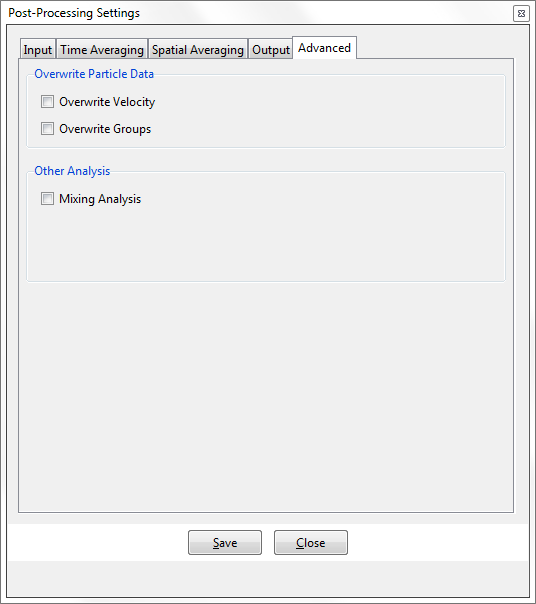
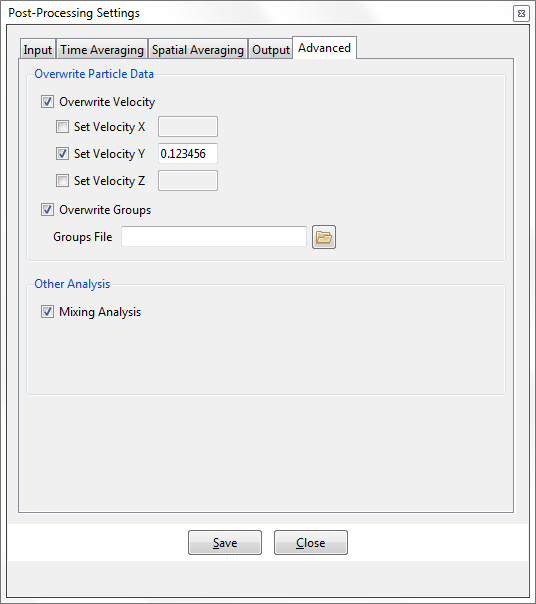
Takes my docs work up and including 2.2.2.5

diff --git a/manual/post/post_processing_options_frame3.md b/manual/post/post_processing_options_frame3.md
@@ -1,45 +1,43 @@
-# Spatial Averaging
+## Spatial Averaging
 
-this section is used for the definition of the spatial average processing. Allows the user chose between
-Binning (cell-based averaged values) or Coarse graining (point-based average values), and for the case
-of Coarse graining, activate the calculation of gradients and spatial integrals.
+This tab is used for the definition of the spatial averaging process. Users can chose between
+Binning (cell-based average values) or Coarse Graining (point-based weighted-average values). In the case
+of Coarse Graining, users can activate the calculation of gradients and spatial integrals.
 
-![Screenshot](img/p4_settings_frame3.png)
+![Post-Processing Settings: Spatial Averaging](img/postProSettingsSpatialTab.png)
 
+The image above shows the appearance of the Spatial Averaging tab as seen when it is first navigated to.  However, its layout will change (with different fields appearing and vanishing), as different options are selected. 
 
-* **Type.** [Coarse_Graining / Binning] The type of spatial averaging can be chose as Coarse Graining or Binning. (See below for details)
+* **Type** : [Coarse_Graining / Binning] Users can select `Binning` or `Coarse_Graining` when deciding which type of spatial averaging they want. Binning will perform a simple average over those particles found to be inside an element of the coarse graining mesh.  Coarse graining will apply a weighted-average over those particles found to be within a given radius of a vertex of the coarse graining mesh.
+  
+ - **All of the rest of this section is devoted to `Coarse_Graining`.  If the user selects `Binning` as their spatial averaging type, there are no further options.** 
+<br><br>
 
-* **Function.** [Heaviside / Gaussian] When Coarse Graining is chosen, the spatial average function can be chosen between Heaviside and Gaussian functions.
+* **Function** : [Gaussian / Heaviside] The spatial averaging function can be either `Heaviside` (where a particles' contribution will be equally-weighted, no matter where it lies in the region being averaged over) or `Gaussian` (where a particles' contribution varies according to the [Gaussian distribution](https://en.wikipedia.org/wiki/Normal_distribution) of the given `Width`).
 
-* **Width.** For Gaussian function, the Width is the standard deviation of the function.
+ - For most of the cases, the use of `Coarse Graining` with `Gaussian` is recommended. `Binning`, and `Coarse Graining` with `Heaviside` are only for special cases, due to their limited capabilities.
+  <br><br>
 
-* **Cutoff factor.** For Gaussian function, the Cutoff factor define the total length of the function, as a factor (>1) of the standard deviation.
-As the Gaussian function is infinite, the cutoff will define the maximum range of action for the spatial average.
+* **Width** : For `Gaussian` function, this is the standard deviation of the function. For `Heaviside`, this determines the size of the filter footprint, as shown in the diagram, above.
 
-* **Cutoff.** For Heaviside function, the Cutoff defines the range of action of the function to consider the surrounding particles in the spatial average.
+ - **All of the rest of this section is devoted to use of a `Gaussian` Function.  If the user selects `Heaviside` as their spatial averaging function, there are no further options.** 
+<br><br>
 
-* **Spatial integral.** [NO / 1D / 2D] Allows the user to perform the integral of the spatial average. In 1D
-integral, all the particles in the integral direction are used to compute the spatial average, resulting in a
-projection over the plane. In the 2D integral, all the particles in the range of the integral planes are used to
-perform the spatial average, resulting in a projection over the line. *[NEED A BETTER EXPLANATION]*
+* **Cutoff Factor** : The `Cutoff Factor` is used in combination with the `Width` to ignore particles whose contribution will be very small.  Since the Gaussian function only becomes zero at infinity, all particles would contribute to the spatial average, most giving the tiniest of contributions, without the cut-off approach shown in the diagram, above.
 
-* **Integration direction.** [X / Y / Z] When Spatial Integral 1D activated, define the integration direction.
+ - The values of `Width` and `Cutoff Factor` are problem dependent, but for quasi-static problems or low speed flows a `Width` of 2.5 to 3.0 times the average particle radius can be considered a safe value. For high speed flows and high sampling frequencies, this value can be as low as half the average radius. A `Cutoff Factor` of 3.0 can be considered safe.  In the case of high speed flows or sampling frequencies, this value can decrease to obtain a better resolution close to the boundaries.
+ <br><br>
 
-* **Integration plane.** [XY / YZ / XZ] When Spatial Integral 2D activated, define the integration plane.
+* **Spatial integral.** [NO / 1D / 2D] These (probably) correspond to a 3D, 2D and 1D coarse graining mesh, respectively.
 
-* **Calculate Gradients.** [on/off] Activate the calculation of spatial gradients during the averaging process.
-The gradients will be chosen in results menu for the standard results: Density, Solid fraction, Momentum,
-and Velocity.
+ - `NO` : If the user wants to perform spatial averaging over a ball around each vertex of a 3D coarse-graining mesh (for example, a mesh of tetrahedra) then (gradients aside) the parameters covered thus far in this section are sufficient to completely define the spatial averaging specifics.
 
+ - `1D` : If the user wants to perform spatial averaging over a circle around each vertex of a 2D coarse-graining mesh (a plane, slicing through particles) where each particle's contribution is projected onto the plane, and *its distance from the plane plays no part in the final result*, then the `1D` option is the one to chose.  The **Integration direction** parameter [X / Y / Z] is used to define direction in which this projection takes place.  For example, a coarse-graining mesh which lies in the "X=konst" plane would use the `X` integration direction.
+ <br><br>
+ Such averaging is not limited to the use of such a planar coarse-graining mesh; one could chose `1D` with a volumetric mesh and the projection would still take place at every vertex, but this would probably lead to repetition of your results and they would only vary *across* the chosen integration direction, not *along* it.
 
-> Note:
->
-> * For most of the cases, the use of Coarse_Graining averaging procedure with Gaussian function
-is recommended. Binning averaging and Coarse_Graining with Heaviside function are used just
-for special cases, because their limitation of capabilities.
-> *  For the Gaussian function, the values of Width and Cutoff_factor are problem dependent, but
-for quasi-static problems or low speed flows a Width of 2.5-3.0 times the average particle radius
-can be considered a safe value. For high speed flows and high sampling frequencies, this value
-can decrease until 0.5 times the average radius. The Cutoff_factor of 3.0 can be considered safe.
-In case of high speed flows or sampling frequencies, this value can decrease to obtain a better
-resolution close to the boundaries.
+ - `2D` : If the user wants to perform integration along a line through the data, where each particle's contribution is projected onto that line and only their distance along that line determines how they are filtered (not how far they are from it), then the `2D` option is the one to chose.  The **Integration plane** parameter [XY / YZ / XZ] specifies the components which are ignored, when such a projection takes place.  For example, a coarse-graining mesh consisting of a line of points parallel to the Z axis would use `XY` as the integration plane parameter.
+<br><br>
+ As we the case with `1D`, such averaging is not limited to a particular type of coarse-graining mesh; one could chose `2D` with a volumetric or planar mesh and the projection would still take place at every vertex, but this would probably lead to even more repetition of your results and they would not vary *across* the chosen integration plane, only with *distance away from* it.
+
+* **Calculate Gradients** : [on/off] Activate the calculation of spatial gradients during the averaging process.  The gradients will be chosen in the results menu for the standard results: Density, Solid fraction, Momentum, and Velocity.

diff --git a/manual/post/post_processing_options_frame4.md b/manual/post/post_processing_options_frame4.md
@@ -1,42 +1,46 @@
-# Output
+## Output
 
-This section is used to define the output generation from Particle-Analytics. Allows activate the particles/contacts
-visualization files, activate special results or scale the results.
+This section is used to define the output generation from Particle-Analytics. This tab enables the activation of the particles/contacts visualization files, exposes the output of special results, and allows the user to scale the results.
 
-![Screenshot](img/p4_settings_frame4.png)
+![Post-Processing Settings: Output](img/postProSettingsOutputTab.png)
 
-* **File Type.** [GiD_Binary / GiD_Ascii] Allows to chose the type of output/post-process file written in Particle-Analytics.
-The binary file reduce the file size, but no problems can be checked in the file. The Ascii file, allows to
-access and read the results directly in a text editor, but increase the file size.
+##### Output File
 
-* **Output File.** [Default / Other] Allows the user to use the default name for the output file (DEFAULT)
-or define a different one (OTHER).
+* **File Type** : [GiD\_Binary / GiD\_Ascii] Allows users to chose the type of output/post-process file written by Particle-Analytics.  The binary file reduces the file size, but since such files are not human-readable, no problems can be checked in such output. The Ascii file increases the file size, but is human readable in a text editor. Use the former, unless you have good cause not to.
 
-* **Output Filename.** When Other Output File is chosen, define the user name for the output/post-process
+* **Default Output File** : [on / off] Allows the user to use the default name for the output file (if `on`) or define a different one (if `off`).
+
+* **Output File** : When `Default Output File` is `off`, define the file name for the output/post-process
 file.
 
-* **Scale Results.** [on/off] Used to scale the results of Particle-Analytics. This option, combined with the spatial integrals,
-is useful to calculate the average in a certain direction or plane.
+##### Coarse-Graining Results
 
-* **Scale Value.** When Scale Results is activated, define the value used to scale the results.
+* **Scale Results** : [on/off] Used to scale the results of Particle-Analytics. This option, combined with the spatial integrals, is useful when calculating the average in a certain direction or plane. The most common uses of the `Scale Results` option are:
+ - A change of units in the model.
 
-* **Print Particles.** [on/off] Used to write an extra output file with the particles information. This is required
-to visualize the particles in the post-processor, but increase the processing time.
+ - The calculation of the average value in a certain direction/plane. This is performed in combination with the 1D/2D integrals.
 
-* **Print Particles Contact.** When Print Particles is activated, this option is used to add the contact
-information in the particles output file.
+ - **Value** : When `Scale Results` is activated, define the scale value here.<br><br>
 
-* **Print Symmetric Stress.** [on/off] Normally, the stress calculated in Particle-Analytics produce a non-symmetric tensor
-and the 9 components of the tensor should be written. This option is used to force the symmetry in the
-stress tensor, and just 6 components are required.
+* **Print Symmetric Stress.** [on/off] Normally, the stress calculated in Particle-Analytics produces a non-symmetric tensor and all 9 components of the tensor will be written out. When this option is enabled, symmetry is enforced upon the stress tensor, and just 6 components are output.
 
-* **Print Pressure.** [on/off] This option is used to write the hydrostatic pressure of the contact stress tensor, defined as
+* **Print Contact Pressure** : [on/off] This option is used to write the hydrostatic pressure of the contact stress tensor, as defined by ![Hydrostatic pressure, defined](img/Eqn_Pressure.png)
 
-![Screenshot](img/Eqn_Pressure.png)
+##### Particle Results
 
-> NOTE:
+* **Print Particles.** [on/off] Used to write an extra output file with the particles information. This is required to visualize the particles in the post-processor, but will result in an increase in processing time.
 
-> The most common use of the Scale Results option are:
-> * The change of units in the model.
+ - **Print Contacts** : [on/off] When activated, this ensures the contact information appears in the particles output file.
 
-> * The calculation of the average value in a certain direction/plane. This is performed in combination with the 1D/2D integrals.
+ - **Print Particle Mass** : [on/off] When activated, this ensures the particle mass appears in the particles output file.
+
+ - **Print Particle Volume** : [on/off] When activated, this ensures the particle volume appears in the particles output file.
+
+ - **Print Particle Size** : [on/off] When activated, this ensures the particle size appears in the particles output file. For spherical particles, this is the radius of the sphere.  For non-spherical particles, this is the radius of a sphere whose volume is identical to that of the particle.
+
+
+
+
+
+
+

diff --git a/manual/post/post_processing_options_frame5.md b/manual/post/post_processing_options_frame5.md
@@ -1,16 +1,19 @@
-# Advanced
+## Advanced
 
-This section give access to advanced features of Particle-Analytics, like overwrite particle variables or groups.
+This section exposes the advanced features of Particle-Analytics, such as overwriting particle velocity.
 
-![Screenshot](img/p4_settings_frame5.png)
+![Post-Processing Settings: Advanced](img/postProSettingsAdvancedTab.png)
 
-* **Overwrite Particle Variables.** [on/off] Allows the user to overwrite certain variables from the particle
-files. At the moment, just the velocity can be overwritten.
+##### Overwrite Particle Data
 
-* **Set Velocity_[X,Y,Z].** [on/off] When Overwrite Particle Variables is activated, allows the user to chose
-the component of the velocity vector to be overwritten.
+* **Overwrite Velocity** : [on/off] Allows the user to overwrite the velocity.
 
-* **Velocity_[X,Y,Z].** When Overwrite Particle Variables is activated, the value of the velocity used to
-overwrite this velocity component.
+ - **Set Velocity [X,Y,Z]** : When `Overwrite Velocity` is activated (`on`) users can overwrite individual velocity components by first enabling the [on/off] radio button for a particular component, and then entering the relevant value in the corresponding window.
 
-* **Groups Filename.** Define a file used to overwrite the particles group-ID in the particles file.
+* **Overwrite Groups** : [on/off] Allows the user to overwrite the particles' group-IDs.
+
+ - **Groups File** : If `Overwrite Groups` is enabled, define a file used to overwrite the particles' group-IDs in the particles file.
+
+##### Other Analysis
+
+* **Mixing Analysis** : [on/off]

diff --git a/manual/post/post_processing_options_frame1.md b/manual/post/post_processing_options_frame1.md
@@ -2,7 +2,7 @@
 
 This section is used for the definition of the particles files to be processed. The files can be selected and filtered by time ranges, steps frequency and particle groups.
 
-![Screenshot](img/postProSettingsInputTab.png)
+![Post-Processing Settings: Input](img/postProSettingsInputTab.png)
 
 ##### Particle Input File
 
@@ -21,9 +21,9 @@ wall contact files if they are detected. Particle-Analytics assumes that contact
 
 * **All Time Steps** : [on/off] Used to activate the start/end time range (if `off`) and turn of the necessity for the range (if `on`). 
 
-* **Start Time** : If `All Time Steps` is `off`, define the time to initiate the input file processing.
+* **Start Time** : If `All Time Steps` is `off`, define the time at which Particle-Analytics should begin processing the input file.
 
-* **End Time** : If `All Time Steps` is `off`, define the time to finish the input file processing.
+* **End Time** : If `All Time Steps` is `off`, define the time at which Particle-Analytics should stop processing the the input file.
 
 * **Steps Frequency** : Chose the frequency for reading the time steps from the input files.
 

diff --git a/manual/post/post_processing_options_frame2.md b/manual/post/post_processing_options_frame2.md
@@ -1,13 +1,13 @@
-# Time Averaging
+## Time Averaging
 
 This section allows the activation of the temporal average processing. The average can be chosen for all
 the results loaded or local time ranges.
 
-![Screenshot](img/p4_settings_frame2.png)
+![Post-Processing Settings: Time Averaging](img/postProSettingsTimeTab.png)
 
-* **Activate Time Average.** [on/off] This option activates the averaging process in the time domain.
+* **Activate** : [on/off] This option activates the averaging process in the time domain.
 
-* **Time Average.** [ALL / FREQUENCY] Chose if the time average will be performed over all the
+* **Time Average** : [ALL / FREQUENCY] Chose if the time average will be performed over all the
 simulation (ALL) or using a local time average for a number of time steps (FREQUENCY).
 
-* **TimeStep Frequency.** The number of steps used for the local time average.
+* **TimeStep Frequency** : The number of steps used for the local time average.
